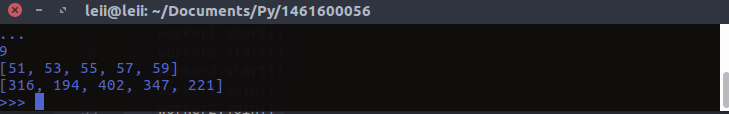
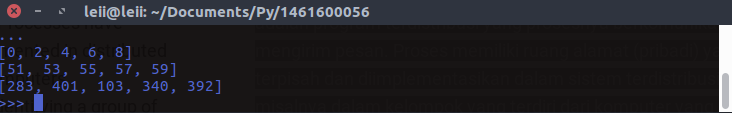
fix with multiprocessing

Changed region(s): [[0.0, 0.1858, 1.0, 1.0], [0.0, 0.0265, 0.513, 0.1858], [0.0, 0.3186, 0.0302, 0.3717]]

diff --git a/Tugas 2/program/withMultiProcessing.py b/Tugas 2/program/withMultiProcessing.py
@@ -2,33 +2,33 @@ import random
 import time
 import multiprocessing
 
-def SoalA():
-    result = []
+def SoalA():    
     for i in range(0,10):
-        if i%2==1:
-            result.append(i)
-    print(result)  
+        if i%2==1:            
+            print("==Proses 1=>-----",i)        
+        time.sleep(random.randrange(1,2))
 
-def SoalB():
-    result = []
+def SoalB():    
     for i in range(50,60):
-        if i%2==0:
-            result.append(i)
-    print(result)
-
-def SoalC():
-    result = []
-    for i in range(0,5):
-        result.append(random.randrange(100,500))
-    print(result)
+        if i%2==0:            
+            print("==Proses 2=>----------",i)
+        time.sleep(random.randrange(1,2))
+    
+def SoalC():    
+    for i in range(0,5):                
+        print("==Proses 3=>---------------",random.randrange(100,500))
+        time.sleep(random.randrange(1,2))
+    
 
 if __name__ == "__main__":
     worker1 = multiprocessing.Process(target=SoalA)
     worker2 = multiprocessing.Process(target=SoalB)
     worker3 = multiprocessing.Process(target=SoalC)
+
     worker1.start()
     worker2.start()
     worker3.start()
+
     worker1.join()
     worker2.join()
     worker3.join()

diff --git a/Tugas 2/program/main.py b/Tugas 2/program/main.py
@@ -5,7 +5,7 @@ def SoalA():
     for i in range(0,10):
         if i%2==0:
             result.append(i)
-    print(i)  
+    print(result)  
 
 def SoalB():
     result = []
